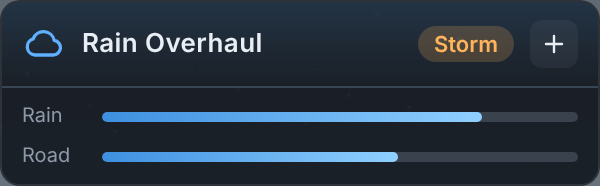
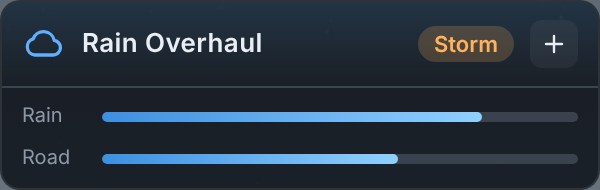
Fix rain not showing and the UI app breaking the game layout
- Apply rain changes with postApply and setPercentage so drops actually render;
  the mod's own rain object is created with full drops and thinned by percentage
- Map rain objects are made to follow the camera while raining
- Add beamngWeather_rain.debug() to report the rain system's state
- Build the app's styles into app.js and give the windshield canvas inline
  fixed positioning, so it never pushes the game UI around

Claude-Session: https://claude.ai/code/session_01JaCzbgqUh31fVUKXZUtntW

diff --git a/mod/ui/modules/apps/BeamNGWeatherRain/app.js b/mod/ui/modules/apps/BeamNGWeatherRain/app.js
@@ -5,6 +5,17 @@
 //   windshield in the driver camera. Drops run down the glass, are pushed up
 //   by the wind at speed, and are cleared by the wipers.
 (function () {
+  // The stylesheet is built into this file so it loads even when the game
+  // does not load app.css on its own.
+  var CSS = "/* BeamNG Weather: Rain Overhaul panel */\n.bngw {\n  --bg: rgba(16, 20, 27, 0.88);\n  --card: rgba(255, 255, 255, 0.05);\n  --line: rgba(255, 255, 255, 0.09);\n  --text: #e9eef5;\n  --muted: #8d99a8;\n  --accent: #5fb0ff;\n  --accent-2: #8fd0ff;\n  --warn: #ffb35c;\n  --off: #3a424d;\n  width: 100%; height: 100%; box-sizing: border-box;\n  display: flex; flex-direction: column;\n  background: var(--bg); color: var(--text);\n  font-family: \"Segoe UI\", Roboto, Arial, sans-serif; font-size: 12px;\n  border-radius: 10px; border: 1px solid var(--line);\n  overflow: hidden; user-select: none;\n}\n.bngw * { box-sizing: border-box; }\n/* Reset styles the game UI puts on buttons and inputs */\n.bngw button { font-family: inherit; line-height: 1.2; text-transform: none; letter-spacing: normal;\n  min-width: 0; min-height: 0; margin: 0; box-shadow: none; outline: none; }\n.bngw div, .bngw span { line-height: 1.3; }\n.bngw svg { display: block; }\n\n/* Header */\n.bngw-head {\n  display: flex; align-items: center; gap: 8px; padding: 9px 10px;\n  background: linear-gradient(180deg, rgba(95,176,255,0.14), rgba(95,176,255,0));\n  border-bottom: 1px solid var(--line);\n}\n.bngw-head .ico { width: 22px; height: 22px; color: var(--accent); }\n.bngw-head .title { font-size: 13px; font-weight: 600; flex: 1; letter-spacing: 0.2px; }\n.bngw-pill {\n  padding: 2px 8px; border-radius: 10px; font-size: 11px; font-weight: 600;\n  background: var(--off); color: var(--muted);\n}\n.bngw-pill.on { background: rgba(95,176,255,0.22); color: var(--accent-2); }\n.bngw-pill.storm { background: rgba(255,179,92,0.2); color: var(--warn); }\n.bngw-iconbtn {\n  width: 24px; height: 24px; border: 0; border-radius: 6px; padding: 4px;\n  background: transparent; color: var(--muted); cursor: pointer;\n}\n.bngw-iconbtn:hover { background: var(--card); color: var(--text); }\n\n.bngw-body { padding: 8px 10px 10px; overflow-y: auto; flex: 1; }\n.bngw-section { margin-top: 10px; }\n.bngw-section:first-child { margin-top: 2px; }\n.bngw-label {\n  font-size: 10px; font-weight: 700; letter-spacing: 0.8px; text-transform: uppercase;\n  color: var(--muted); margin-bottom: 6px; display: flex; justify-content: space-between;\n}\n.bngw-label .val { color: var(--text); letter-spacing: 0; text-transform: none; font-size: 11px; }\n\n/* Presets */\n.bngw-presets { display: grid; grid-template-columns: repeat(5, 1fr); gap: 4px; }\n.bngw-preset {\n  display: flex; flex-direction: column; align-items: center; gap: 3px;\n  padding: 6px 2px 5px; border-radius: 7px; border: 1px solid var(--line);\n  background: var(--card); color: var(--muted); cursor: pointer; font-size: 10px;\n  transition: background 0.15s, color 0.15s, border-color 0.15s;\n}\n.bngw-preset svg { width: 22px; height: 22px; }\n.bngw-preset:hover { color: var(--text); background: rgba(255,255,255,0.09); }\n.bngw-preset.active { color: var(--accent-2); border-color: var(--accent); background: rgba(95,176,255,0.16); }\n\n/* Slider */\n.bngw-slider { width: 100%; -webkit-appearance: none; appearance: none; height: 6px; border-radius: 3px; outline: none; cursor: pointer; margin: 4px 0; }\n.bngw-slider::-webkit-slider-thumb {\n  -webkit-appearance: none; width: 16px; height: 16px; border-radius: 50%;\n  background: #fff; border: 3px solid var(--accent); box-shadow: 0 1px 4px rgba(0,0,0,0.5);\n}\n.bngw-scale { display: flex; justify-content: space-between; font-size: 10px; color: var(--muted); }\n\n/* Meters */\n.bngw-meters { display: grid; grid-template-columns: 1fr 1fr; gap: 6px; }\n.bngw-meter { background: var(--card); border: 1px solid var(--line); border-radius: 7px; padding: 6px 8px; }\n.bngw-meter .top { display: flex; justify-content: space-between; align-items: baseline; }\n.bngw-meter .name { color: var(--muted); font-size: 10px; text-transform: uppercase; letter-spacing: 0.6px; font-weight: 700; }\n.bngw-meter .num { font-size: 15px; font-weight: 600; }\n.bngw-meter .state { font-size: 10px; color: var(--accent-2); margin-top: 1px; }\n.bngw-track { height: 5px; border-radius: 3px; background: var(--off); overflow: hidden; margin-top: 5px; }\n.bngw-track > div { height: 100%; border-radius: 3px; background: linear-gradient(90deg, #3d8fe0, var(--accent-2)); transition: width 0.2s linear; }\n\n/* Segmented control */\n.bngw-seg { display: grid; grid-template-columns: repeat(4, 1fr); background: var(--card); border: 1px solid var(--line); border-radius: 7px; padding: 2px; gap: 2px; }\n.bngw-seg button {\n  border: 0; border-radius: 5px; padding: 5px 0; font-size: 11px; cursor: pointer;\n  background: transparent; color: var(--muted);\n}\n.bngw-seg button:hover { color: var(--text); }\n.bngw-seg button.active { background: var(--accent); color: #08121e; font-weight: 600; }\n\n/* Toggles */\n.bngw-toggles { display: grid; grid-template-columns: 1fr 1fr; gap: 4px 10px; }\n.bngw-toggle { display: flex; align-items: center; justify-content: space-between; padding: 4px 0; cursor: pointer; }\n.bngw-toggle span { color: var(--text); }\n.bngw-switch { position: relative; width: 28px; height: 16px; border-radius: 8px; background: var(--off); transition: background 0.15s; flex: none; }\n.bngw-switch::after {\n  content: \"\"; position: absolute; top: 2px; left: 2px; width: 12px; height: 12px; border-radius: 50%;\n  background: #cfd6df; transition: left 0.15s, background 0.15s;\n}\n.bngw-switch.on { background: var(--accent); }\n.bngw-switch.on::after { left: 14px; background: #fff; }\n\n/* Buttons */\n.bngw-btn {\n  border: 1px solid var(--line); border-radius: 6px; padding: 6px 8px; font-size: 11px; cursor: pointer;\n  background: var(--card); color: var(--text);\n}\n.bngw-btn:hover { background: rgba(255,255,255,0.1); }\n.bngw-btn.primary { background: var(--accent); color: #08121e; border-color: var(--accent); font-weight: 600; }\n.bngw-btn.primary.stop { background: var(--off); color: var(--text); border-color: var(--off); }\n.bngw-btns { display: grid; grid-template-columns: 1fr 1fr 1fr; gap: 4px; }\n.bngw-main { width: 100%; padding: 8px; font-size: 12px; margin-top: 8px; }\n\n.bngw-adv-toggle { width: 100%; display: flex; justify-content: space-between; align-items: center; background: transparent; border: 0; color: var(--muted); cursor: pointer; padding: 4px 0; font-size: 11px; border-top: 1px solid var(--line); margin-top: 10px; padding-top: 8px; }\n.bngw-adv-toggle:hover { color: var(--text); }\n.bngw-hint { color: var(--muted); font-size: 10px; margin-top: 6px; line-height: 1.4; }\n\n/* Compact mode */\n.bngw.compact { height: auto; }\n.bngw-mini { display: flex; gap: 6px; padding: 8px 10px; align-items: center; }\n.bngw-mini .bngw-track { flex: 1; margin: 0; }\n.bngw-mini .lbl { color: var(--muted); font-size: 10px; width: 34px; }\n\n/* Windshield overlay, behind the other apps */\n.bngw-overlay { position: fixed; left: 0; top: 0; width: 100vw; height: 100vh; pointer-events: none; z-index: 0; }\n";
+  function ensureStyle() {
+    if (document.getElementById('bngw-style')) return;
+    var st = document.createElement('style');
+    st.id = 'bngw-style';
+    st.textContent = CSS;
+    (document.head || document.documentElement).appendChild(st);
+  }
+
   // Small line icons (inherit the text color)
   var I = {
     cloud: '<path d="M7 18h10a4 4 0 0 0 .6-7.95A6 6 0 0 0 6.1 9.2 4.5 4.5 0 0 0 7 18z"/>',
@@ -111,6 +122,7 @@
       replace: true,
       restrict: 'EA',
       link: function (scope, element) {
+        ensureStyle();
         var lua = function (cmd) { bngApi.engineLua(cmd); };
 
         scope.d = { rainOn: false, target: 0.6, intensity: 0, wetness: 0, wipers: 0, speed: 0, camera: '', inCar: false,
@@ -225,6 +237,8 @@
       var canvas = document.createElement('canvas');
       canvas.id = 'bngw-windshield';
       canvas.className = 'bngw-overlay';
+      // Inline styles: the overlay must never take up space in the page
+      canvas.style.cssText = 'position:fixed;left:0;top:0;width:100vw;height:100vh;pointer-events:none;z-index:0;display:block;';
       document.body.insertBefore(canvas, document.body.firstChild);
       var ctx = canvas.getContext('2d');
       var W = 0, H = 0, scale = 1;

diff --git a/README.md b/README.md
@@ -42,6 +42,7 @@ A BeamNG.drive mod that adds a full rain system:
   beamngWeather_rain.setFeature("grip", false)
   beamngWeather_rain.setRates(45, 240)       -- seconds to get fully wet / to dry
   beamngWeather_wetRoads.dump()              -- list the materials treated as road
+  beamngWeather_rain.debug()                 -- show what the rain system is doing (send this if rain doesn't show)
   ```
 
 Settings are saved to `settings/beamng_weather.json` in your user folder.
